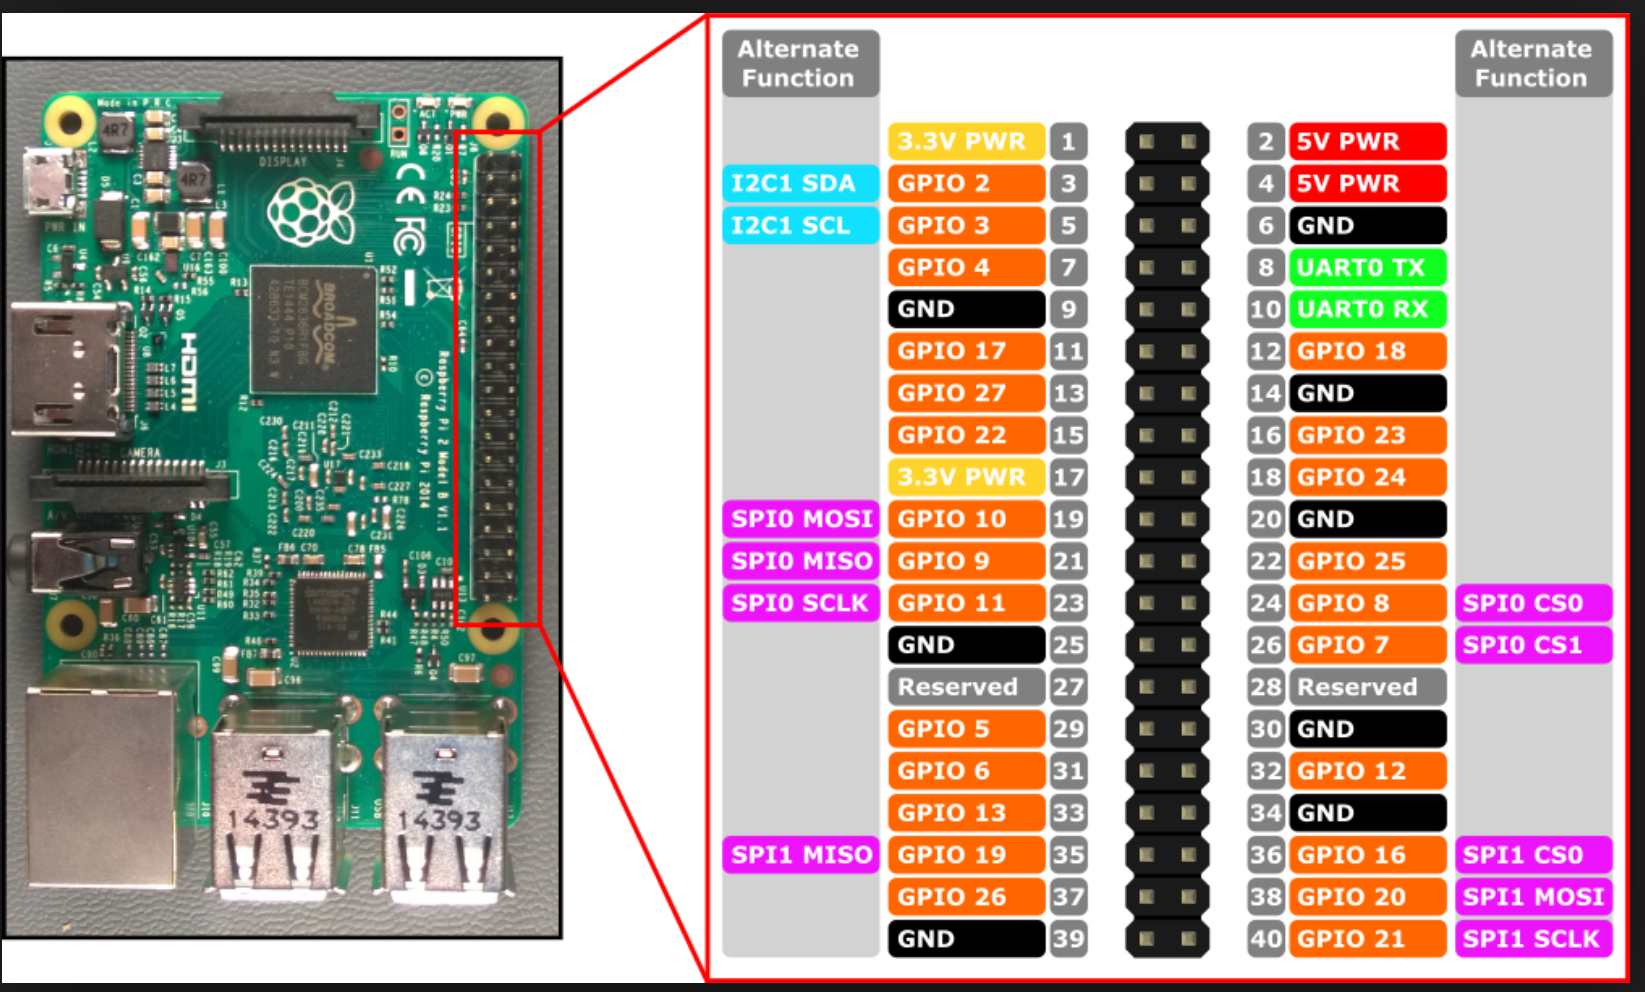
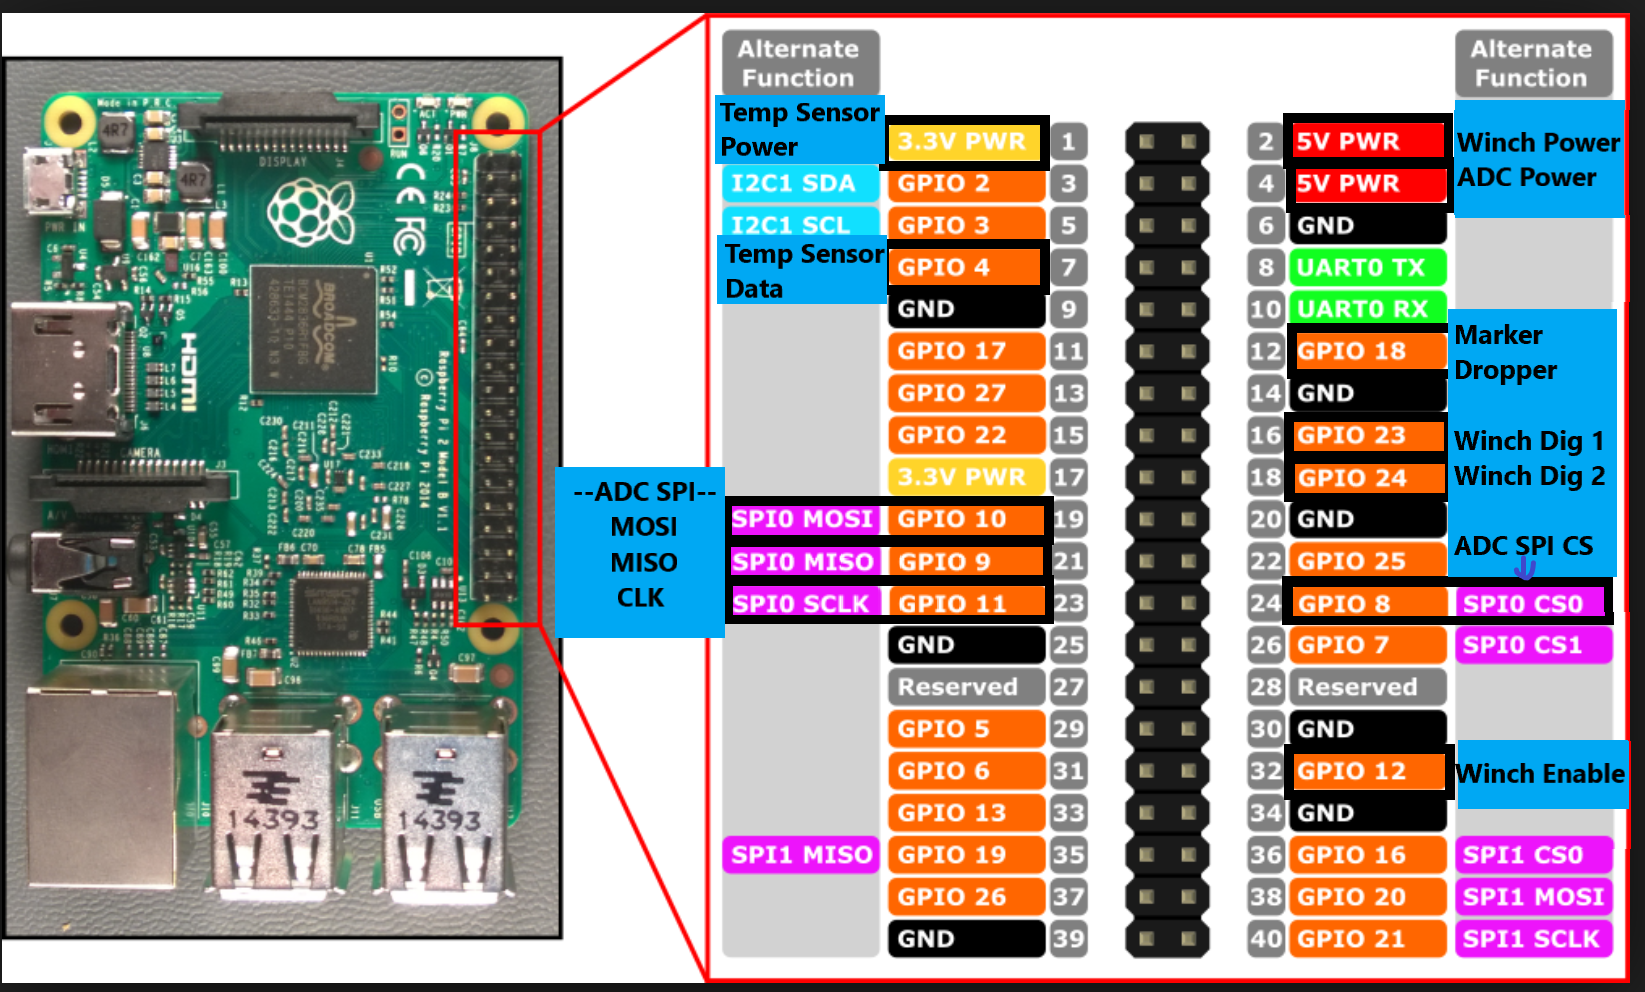
udpated docs

diff --git a/ssh_comm/babyrov_control.py b/ssh_comm/babyrov_control.py
@@ -1,7 +1,8 @@
-#import pigpio  # this might be the wrong import
+import pigpio
 import argparse
 import struct
 import time
+import serial
 
 ARGS_WINCH_SPEED_IDX    = 0
 ARGS_THRUSTER_SPEED_IDX = 1

diff --git a/documentation/Surface_Computer.md b/documentation/Surface_Computer.md
@@ -2,6 +2,20 @@
 
 In the `ssh_comm` folder of this repository, you can run the `surface_computer.py` script to connect to the robot.
 
+## Python Libary Requirements
+
+### Surface Computer
+
+ - Paramiko
+ - TKinter
+ - pySerial
+ - FuncTools
+
+### Companion Computer
+
+ - PiGPIO
+ - pySerial
+
 ## Setup
 
 1. Connect the companion to the surface computer via ethernet.
@@ -10,10 +24,14 @@ In the `ssh_comm` folder of this repository, you can run the `surface_computer.p
 1. Follow ALL the setup instructions for the [temperature sensor](#temperature-sensor) and [pH sensor](#ph-sensor)
 1. **Unused until relays added** Connect the Arduino to the surface computer via USB and load the Arduino code in the `pneumatics_arduino` folder onto the arduino via the Arduino IDE.
 1. **Unused until relays added** Verify that the COM port used in `surface_computer.py` matches that of the Arduino.  If it does not, update it in `surface_computer.py` script
-1. **Unused until BabyROV is done** plug the pi zero into the companion computer via USB. The routing table on the companion computer will need to be set up so that the multihop SSH is possible. Ask Sam for more info.
+1. Plug the Arduino Nano that controls the BabyROV thruster into a USB port on the companion computer and make sure it has `babyrov_arduino.ino` onto the Arduino.
 1. Everything should be setup at this point, so just run `surface_computer.py` and it should pull up a GUI (note that wherever you run the script from needs to be able to open a GUI so Windows Subsystem For Linux will not work)
 
 ## Notes
+
+### Raspberry Pi Pinout for Companion Computer
+The following picture shows the Pinout of the Pi
+![Pinout](./RPiPinout.png)
 
 ### Temperature sensor
 
@@ -33,6 +51,13 @@ Pin Diagram
 ### pH Sensor
 This sends setup commands to the ADC when the GUI starts up if an SSH connection was made to the companion computer.  This will put the pH sensor in the proper modes (continuous conversion and data ready mode) so that each reading gets the latest result stored on the ADC.  There will probably be a few seconds (or less - not sure how long) after sending those commands that the pH readings may be garbage / innaccurate.  afterwards, pressing the pH reading key should put the read value into the GUI box.
 
+#### Setup
+1. Make sure pigpio is installed on the companion computer
+1. Copy the `ph_sensor.py` script to the companion computer in its home directory
+    1. Navigate to the `ssh_comm` directory
+    1. Execute `scp ph_sensor.py pi@192.168.2.2:~/` to copy it onto the companion computer
+        - Note that the Pi needs to be booted up and you need to be able to SSH in
+
 #### Pin Setup
 
 | ADCPin | PI Pin Number | Pi GPIO Number |
@@ -43,10 +68,6 @@ This sends setup commands to the ADC when the GUI starts up if an SSH connection
 | CS     | 24            | GPIO 8         |
 | VCC    | 5V            | 5V             |
 | GND    | GND           | GND            |
-
-The following picture shows the Pinout of the Pi for a more graphical view
-![Pinout](./RPiPinout.png)
-
 
 #### Calibration Instructions
 
@@ -75,6 +96,32 @@ Note that you probably want to wait a little bit after booting up the Pi to make
 
 Running `ph_sensor.py` on the Pi should give you an accurate pH reading now
 
+### Winch and BabyROV Thruster
+This section describes how to setup and control the BabyROV using the winch to reel and unreel it along with the thruster on the BabyROV.
+
 #### Setup
-1. Make sure pigpio is installed on the companion computer
-1. Copy the `ph_sensor.py` script to the companion computer in its home directory
+
+1. Navigate to the `ssh_comm` folder in your terminal.
+1. Power on the companion computer
+1. Once the Pi is all booted up and you can ssh into it, execute `scp babyrov_control.py pi@192.168.2.2:~/`
+    - This will copy the control script over to the Pi
+1. Load the `babyrov_arduino.ino` file onto the BabyROV Arduino Nano via the Arduino IDE (or using whatever driver is necessary - I think Peter knew what this was)
+1. Run `ssh_comm/surface_computer.py` in windows command prompt (WSL does not work since this uses TKinter).
+    - If you run into any issues connecting to the Pi, follow the instructions in [Surface Computer](./Surface_Computer.md)
+1. The GUI should now have three new text box rows
+    1. Thruster Speed
+    1. Winch Forward Speed
+    1. Winch Backward Speed
+1. The editable boxes on the right side of the rows are where you should put the values you want to use to move the BabyROV/winch
+    - The values should all be in the range [0,255]
+1. Pressing `w` and `s` will move the BabyROV/Winch forward and backward (respectively)
+
+#### Pin Setup
+
+| ADCPin | PI Pin Number | Pi GPIO Number |
+|:------:|:-------------:|:--------------:|
+| ENABLE | 32            | GPIO 12        |
+| INPUT1 | 16            | GPIO 23        |
+| INPUT2 | 18            | GPIO 24        |
+| VCC    | 5V            | 5V             |
+| GND    | GND           | GND            |
